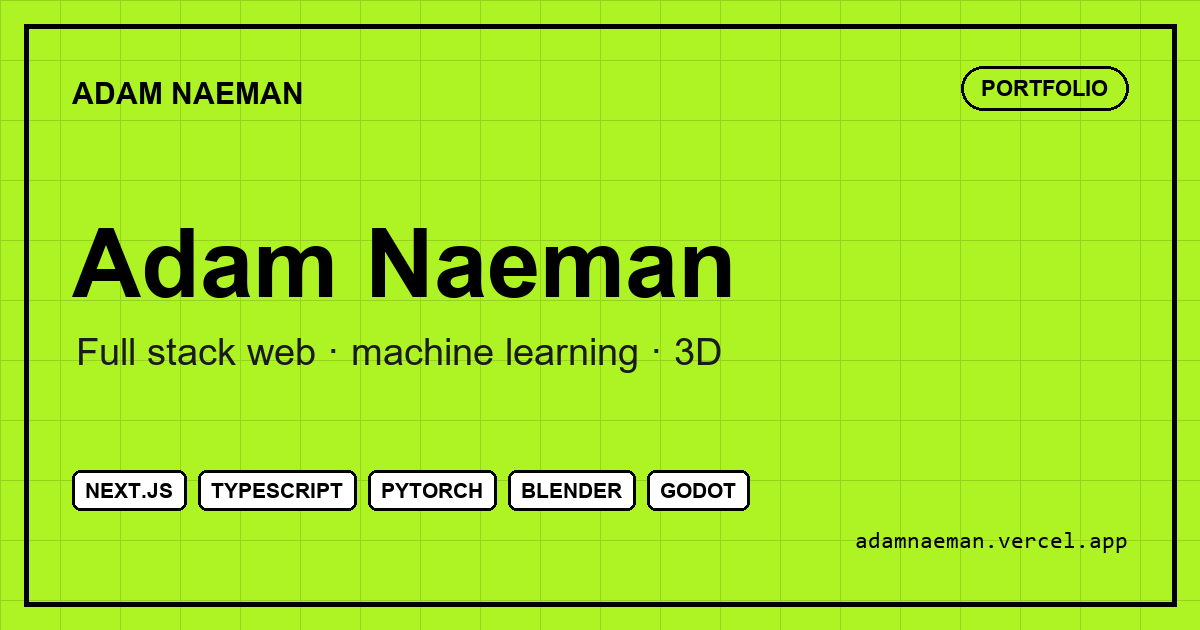
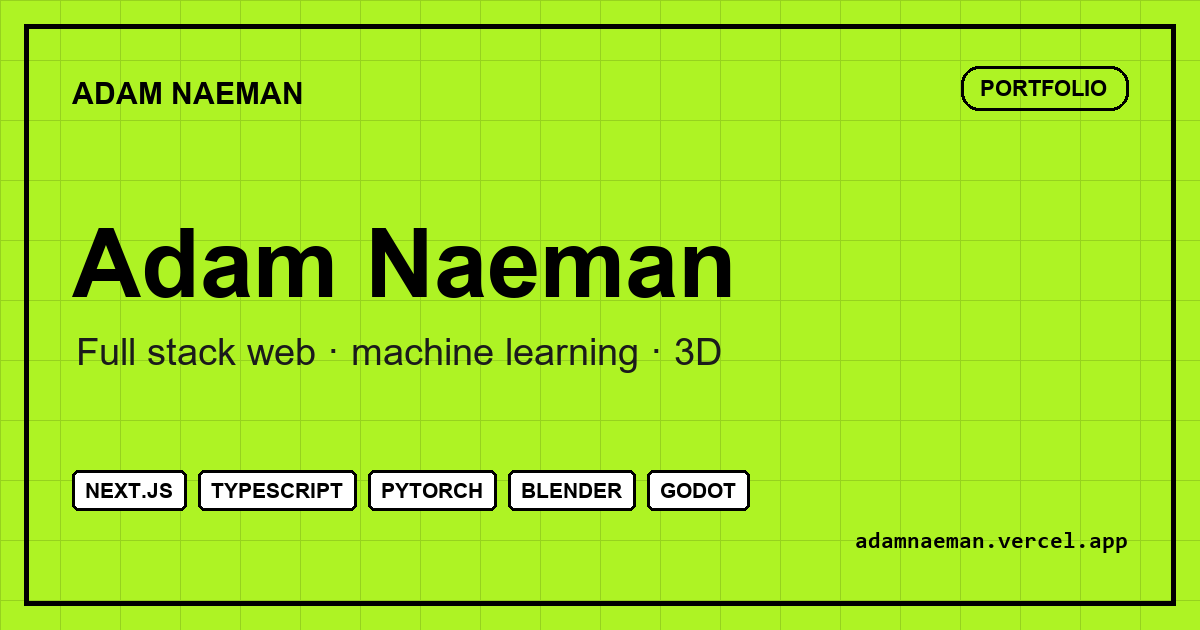
chore(og): rewrite card generator with ink-box layout (1200x630, output equivalent)

Changed region(s): [[0.0308, 0.9349, 0.9867, 0.9651], [0.7092, 0.8444, 0.9558, 0.8746], [0.8017, 0.1206, 0.925, 0.1508]]

diff --git a/tools/make-og.py b/tools/make-og.py
@@ -1,80 +1,239 @@
 #!/usr/bin/env python
-"""Regenerate public/og.png (1200x630 Open Graph card).
+"""Generate the Open Graph card `public/og.png` (1200x630).
 
-Run from anywhere:  python tools/make-og.py
-Requires Pillow. Text is generated here instead of at request time because
-next/og's ImageResponse fails to prerender on Windows + Next 14
-(TypeError: Invalid URL in fileURLToPath).
+`public/og.png` is a committed static asset, so it needs a generator next to it:
+change a line of copy here, re-run, and the card is rebuilt deterministically.
+No network access and no downloaded fonts -- only font files that ship with
+Windows (Arial, Consolas) are used, with a fallback list for other platforms.
+
+Layout reproduced from the card shipped in 2e18648:
+  acid canvas #aef324 + 60px grid #96d21e + 5px black frame inset 24px,
+  wordmark + "PORTFOLIO" badge, name, positioning line, tech pills, domain.
+
+Text blocks are placed by the top-left corner of their *ink* bounding box, so a
+position cannot drift when a glyph's side bearing changes.
+
+Usage:
+    python tools/make-og.py             # writes public/og.png
+    python tools/make-og.py out.png     # writes somewhere else
 """
-import glob
+
+from __future__ import annotations
+
 import os
+import sys
 
 from PIL import Image, ImageDraw, ImageFont
 
 ROOT = os.path.dirname(os.path.dirname(os.path.abspath(__file__)))
-OUT = os.path.join(ROOT, 'public', 'og.png')
+
+# --- canvas -----------------------------------------------------------------
 
 W, H = 1200, 630
-ACID = (174, 243, 36)
-GRID = (150, 210, 30)
-BLACK = (0, 0, 0)
-WHITE = (255, 255, 255)
+ACID = (174, 243, 36)  # #aef324
+GRID = (150, 210, 30)  # #96d21e
+INK = (0, 0, 0)
+PAPER = (255, 255, 255)
+TAGLINE_INK = (27, 27, 27)  # the positioning line is printed a shade off-black
 
-FONTS = glob.glob('C:/Windows/Fonts/**/*.ttf', recursive=True)
-FONTS += glob.glob('/usr/share/fonts/**/*.ttf', recursive=True)
+GRID_STEP = 60
+FRAME_INSET = 24
+FRAME_WIDTH = 5
+
+# --- copy -------------------------------------------------------------------
+
+WORDMARK = "ADAM NAEMAN"
+BADGE = "PORTFOLIO"
+NAME = "Adam Naeman"
+TAGLINE = "Full stack web \u00b7 machine learning \u00b7 3D"
+DOMAIN = "adamnaeman.vercel.app"
+
+# Pill row: (label, left, right, label ink x). Measured off the shipped card.
+PILL_TOP, PILL_BOTTOM = 470, 510
+PILL_RADIUS = 6
+PILL_STROKE = 3
+PILL_LABEL_Y = 483
+PILLS = [
+    ("NEXT.JS", 72, 186, 87),
+    ("TYPESCRIPT", 198, 356, 211),
+    ("PYTORCH", 368, 496, 383),
+    ("BLENDER", 508, 635, 523),
+    ("GODOT", 647, 749, 661),
+]
+
+BADGE_BOX = (961, 66, 1128, 110)
+BADGE_RADIUS = 18
+BADGE_LABEL_Y = 80
+
+# Ink-box anchors for the type blocks.
+WORDMARK_POS = (72, 82)
+NAME_POS = (72, 228)
+TAGLINE_POS = (79, 338)
+DOMAIN_POS = (856, 532)
+
+SIZE_WORDMARK = 30
+SIZE_BADGE = 22
+SIZE_NAME = 96
+SIZE_TAGLINE = 38
+SIZE_PILL = 21
+SIZE_DOMAIN = 23
+
+# --- fonts ------------------------------------------------------------------
+
+FONT_DIRS = [
+    os.path.join(os.environ.get("WINDIR", r"C:\Windows"), "Fonts"),
+    "/usr/share/fonts/truetype/msttcorefonts",
+    "/usr/share/fonts/truetype/liberation",
+    "/usr/share/fonts/truetype/dejavu",
+]
+
+FONT_FILES = {
+    "sans_bold": [
+        "arialbd.ttf",
+        "Arial Bold.ttf",
+        "LiberationSans-Bold.ttf",
+        "DejaVuSans-Bold.ttf",
+    ],
+    "sans": [
+        "arial.ttf",
+        "Arial.ttf",
+        "LiberationSans-Regular.ttf",
+        "DejaVuSans.ttf",
+    ],
+    "mono_bold": [
+        "consolab.ttf",
+        "Consolas Bold.ttf",
+        "CascadiaMono.ttf",
+        "DejaVuSansMono-Bold.ttf",
+        "courbd.ttf",
+    ],
+}
 
 
-def pick(*names):
-    for n in names:
-        for f in FONTS:
-            if os.path.basename(f).lower() == n.lower():
-                return f
-    return FONTS[0]
+def load_font(kind: str, size: int) -> ImageFont.FreeTypeFont:
+    for name in FONT_FILES[kind]:
+        for directory in FONT_DIRS:
+            path = os.path.join(directory, name)
+            if os.path.exists(path):
+                return ImageFont.truetype(path, size)
+    raise SystemExit(
+        "make-og: no %s font found; looked for %s in %s"
+        % (kind, FONT_FILES[kind], FONT_DIRS)
+    )
 
 
-def main():
-    im = Image.new('RGB', (W, H), ACID)
-    d = ImageDraw.Draw(im)
-
-    for x in range(0, W, 60):
-        d.line([(x, 0), (x, H)], fill=GRID, width=1)
-    for y in range(0, H, 60):
-        d.line([(0, y), (W, y)], fill=GRID, width=1)
-    d.rectangle([24, 24, W - 24, H - 24], outline=BLACK, width=5)
-
-    f_name = ImageFont.truetype(pick('ARIALBD.TTF', 'calibrib.ttf'), 30)
-    f_badge = ImageFont.truetype(pick('ARIALBD.TTF', 'calibrib.ttf'), 22)
-    f_title = ImageFont.truetype(pick('ARIALBD.TTF', 'calibrib.ttf'), 96)
-    f_sub = ImageFont.truetype(pick('ARIAL.TTF', 'calibri.ttf'), 38)
-    f_pill = ImageFont.truetype(pick('ARIALBD.TTF', 'calibrib.ttf'), 21)
-    f_url = ImageFont.truetype(pick('consola.ttf', 'cour.ttf'), 23)
-
-    d.text((72, 76), 'ADAM NAEMAN', font=f_name, fill=BLACK)
-
-    badge = 'PORTFOLIO'
-    bw = d.textlength(badge, font=f_badge)
-    bx2 = W - 72
-    bx1 = bx2 - bw - 40
-    d.rounded_rectangle([bx1, 66, bx2, 110], radius=22, outline=BLACK, width=3)
-    d.text((bx1 + 20, 76), badge, font=f_badge, fill=BLACK)
-
-    d.text((72, 210), 'Adam Naeman', font=f_title, fill=BLACK)
-    d.text((76, 330), 'Full stack web \u00b7 machine learning \u00b7 3D', font=f_sub, fill=(27, 27, 27))
-
-    x, y = 72, 470
-    for p in ['NEXT.JS', 'TYPESCRIPT', 'PYTORCH', 'BLENDER', 'GODOT']:
-        tw = d.textlength(p, font=f_pill)
-        d.rounded_rectangle([x, y, x + tw + 26, y + 40], radius=8, fill=WHITE, outline=BLACK, width=3)
-        d.text((x + 13, y + 8), p, font=f_pill, fill=BLACK)
-        x += tw + 38
-
-    url = 'adamnaeman.vercel.app'
-    uw = d.textlength(url, font=f_url)
-    d.text((W - 72 - uw, H - 100), url, font=f_url, fill=BLACK)
-
-    im.save(OUT, 'PNG', optimize=True)
-    print(f'wrote {OUT} ({os.path.getsize(OUT) // 1024} KB)')
+# --- text -------------------------------------------------------------------
 
 
-if __name__ == '__main__':
+def _solid(value: int) -> int:
+    return 255 if value >= 128 else 0
+
+
+def ink_mask(text: str, font: ImageFont.FreeTypeFont) -> tuple[Image.Image, tuple[int, int]]:
+    """Render `text` to a mask, cropped to its ink bounds.
+
+    Returns the mask plus the offset from the crop origin to the first *solid*
+    (>50% coverage) pixel, so callers can anchor on solid ink instead of on a
+    nearly-transparent antialiasing column.
+    """
+    pad = 24
+    layer = Image.new(
+        "L",
+        (int(font.getlength(text)) + pad * 2 + 8, int(font.size * 2.2) + pad * 2),
+        0,
+    )
+    ImageDraw.Draw(layer).text((pad, pad), text, font=font, fill=255)
+    bbox = layer.getbbox()
+    if bbox is None:
+        raise SystemExit("make-og: no ink for %r" % text)
+    solid = layer.point(_solid).getbbox()
+    if solid is None:
+        raise SystemExit("make-og: no solid ink for %r" % text)
+    return layer.crop(bbox), (solid[0] - bbox[0], solid[1] - bbox[1])
+
+
+def stamp(
+    canvas: Image.Image,
+    text: str,
+    font: ImageFont.FreeTypeFont,
+    xy: tuple[int, int],
+    fill: tuple[int, int, int] = INK,
+) -> None:
+    """Paste `text` so the top-left of its solid ink lands exactly on `xy`."""
+    mask, (dx, dy) = ink_mask(text, font)
+    canvas.paste(fill, (int(xy[0]) - dx, int(xy[1]) - dy), mask)
+
+
+# --- build ------------------------------------------------------------------
+
+
+def build() -> Image.Image:
+    canvas = Image.new("RGB", (W, H), ACID)
+    draw = ImageDraw.Draw(canvas)
+
+    # 60px grid over the whole canvas, underneath everything else.
+    for x in range(0, W, GRID_STEP):
+        draw.line([(x, 0), (x, H - 1)], fill=GRID)
+    for y in range(0, H, GRID_STEP):
+        draw.line([(0, y), (W - 1, y)], fill=GRID)
+
+    draw.rectangle(
+        [FRAME_INSET, FRAME_INSET, W - 1 - FRAME_INSET, H - 1 - FRAME_INSET],
+        outline=INK,
+        width=FRAME_WIDTH,
+    )
+
+    # Top row: wordmark, then the outlined "PORTFOLIO" badge.
+    stamp(canvas, WORDMARK, load_font("sans_bold", SIZE_WORDMARK), WORDMARK_POS)
+
+    bx0, by0, bx1, by1 = BADGE_BOX
+    draw.rounded_rectangle(
+        [bx0, by0, bx1, by1], radius=BADGE_RADIUS, outline=INK, width=PILL_STROKE
+    )
+    badge, (bdx, _) = ink_mask(BADGE, load_font("sans_bold", SIZE_BADGE))
+    inner_left = bx0 + PILL_STROKE
+    inner_width = bx1 + 1 - PILL_STROKE - inner_left
+    badge_x = inner_left + (inner_width - badge.width) // 2 - bdx
+    canvas.paste(INK, (badge_x, BADGE_LABEL_Y), badge)
+
+    # Headline block.
+    stamp(canvas, NAME, load_font("sans_bold", SIZE_NAME), NAME_POS)
+    stamp(canvas, TAGLINE, load_font("sans", SIZE_TAGLINE), TAGLINE_POS, TAGLINE_INK)
+
+    # Tech pills.
+    pill_font = load_font("sans_bold", SIZE_PILL)
+    for label, left, right, label_x in PILLS:
+        draw.rounded_rectangle(
+            [left, PILL_TOP, right, PILL_BOTTOM],
+            radius=PILL_RADIUS,
+            fill=PAPER,
+            outline=INK,
+            width=PILL_STROKE,
+        )
+        stamp(canvas, label, pill_font, (label_x, PILL_LABEL_Y))
+
+    # Domain, bottom right.
+    stamp(canvas, DOMAIN, load_font("mono_bold", SIZE_DOMAIN), DOMAIN_POS)
+
+    return canvas
+
+
+def main() -> None:
+    out = sys.argv[1] if len(sys.argv) > 1 else os.path.join(ROOT, "public", "og.png")
+    build().save(out, "PNG", optimize=True)
+
+    with open(out, "rb") as fh:
+        head = fh.read(24)
+    print(
+        "wrote %s: %dx%d, %d bytes"
+        % (
+            out,
+            int.from_bytes(head[16:20], "big"),
+            int.from_bytes(head[20:24], "big"),
+            os.path.getsize(out),
+        )
+    )
+
+
+if __name__ == "__main__":
     main()
